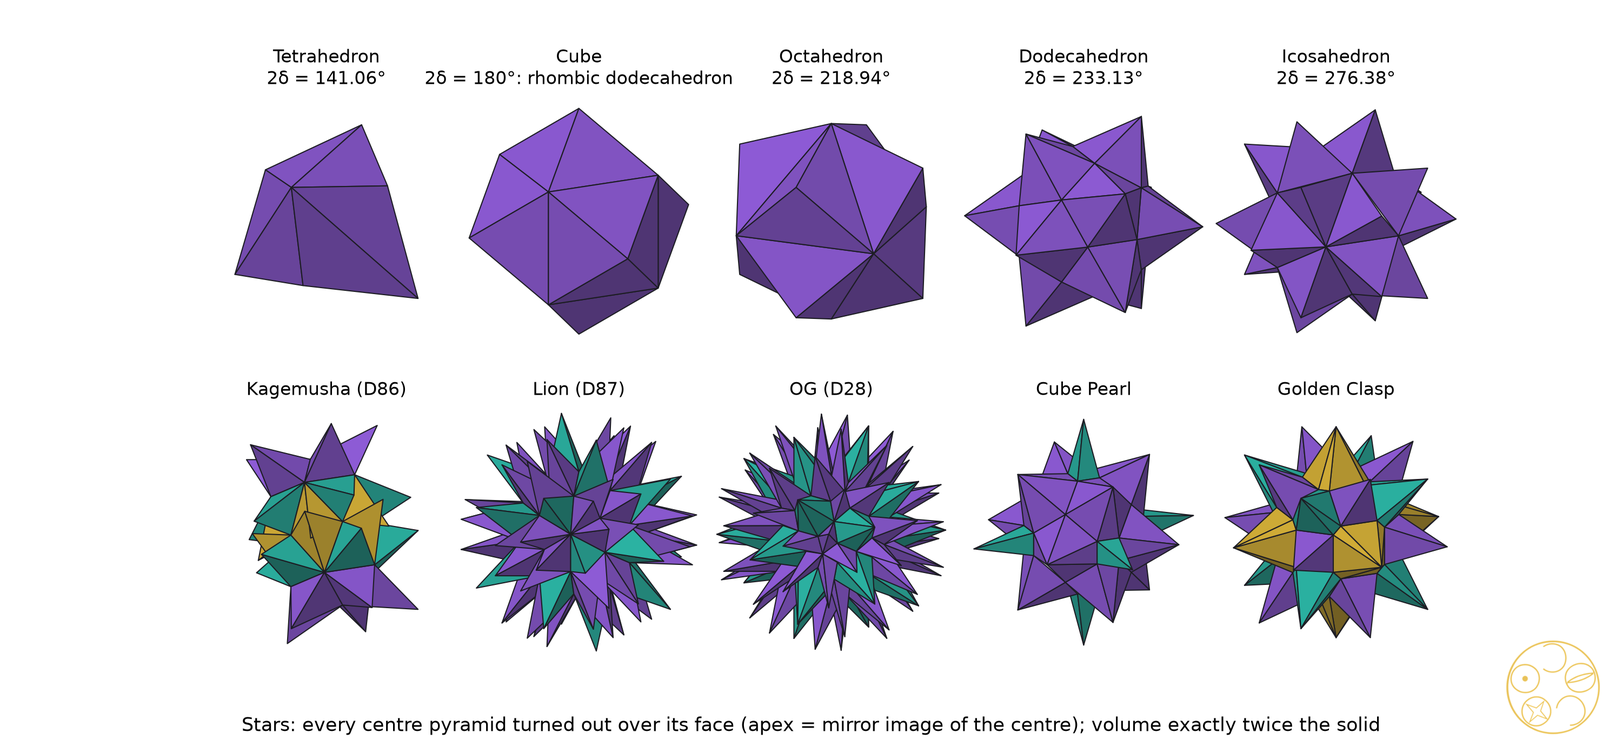
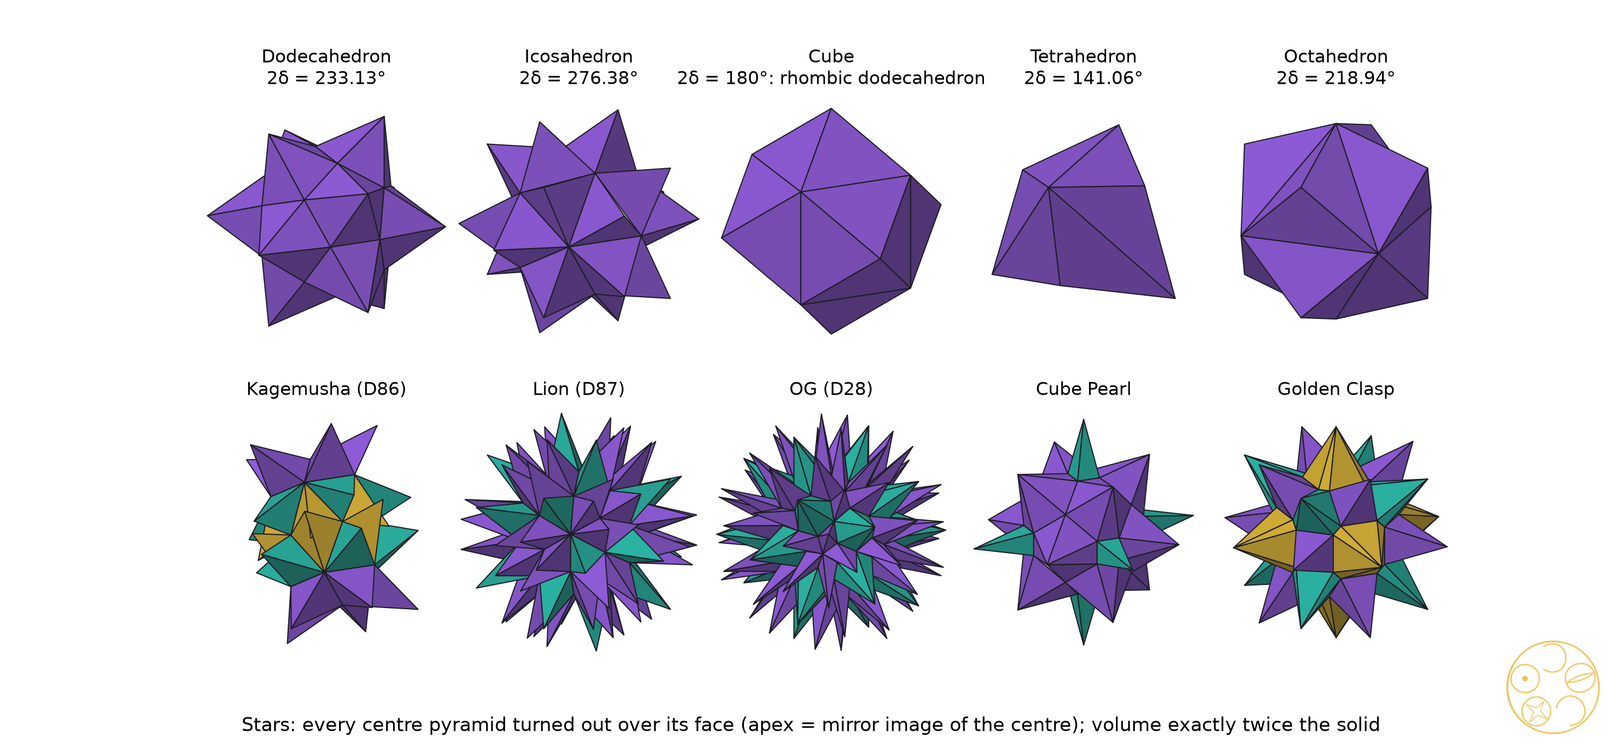
#87: Platonic solids in DICTO order D·I·C·T·O (table, plates 1–5, Figure 4, Star text)

diff --git a/papers/dicto-vacuus/paper.html b/papers/dicto-vacuus/paper.html
@@ -61,7 +61,7 @@ The idea, the family and its name, the two built forms and the origami are DICTO
 <p><b>Right-angled fins.</b> DICTO Ogdoecontahedron (OG): 60 of its 180 fins, right angle at a corner, apex 16.47°. DICTO Jewel: 24 of 96, at a corner, apex 54.74° (arctan √2). DICTO TQHD: 60, at a corner, apex 1.84°. ED F18: 2. David: 2, at O. Lahdeli: 12 (float64). Lotus Hexa: 48. Classical: the octahedron and the triakis octahedron, at O.</p>
 <p>Table 1 lists the five Platonic solids, the cuboctahedron and the DICTO solids named in this paper; the full census of 100 rows is in the study (vacuus-census.json, with every value as an exact string).</p>
 <table class=big><thead><tr><th>Solid</th><th>D</th><th>Field</th><th class=n>Fins</th><th class=n>Fin shapes</th><th class=n>Apex angles (°)</th><th class=n>Struts</th><th class=n>Strut lengths</th><th class=n>Edge lengths</th><th class=n>Frame lengths</th><th>Notes</th></tr></thead><tbody>
-<tr><td>Tetrahedron</td><td></td><td>Q</td><td class=n>6</td><td class=n>1</td><td class=n>109.47</td><td class=n>4</td><td class=n>1</td><td class=n>1</td><td class=n>2</td><td>Isofin</td></tr><tr><td>Cube</td><td></td><td>Q</td><td class=n>12</td><td class=n>1</td><td class=n>70.53</td><td class=n>8</td><td class=n>1</td><td class=n>1</td><td class=n>2</td><td>Isofin</td></tr><tr><td>Octahedron</td><td></td><td>Q</td><td class=n>12</td><td class=n>1</td><td class=n>90.00</td><td class=n>6</td><td class=n>1</td><td class=n>1</td><td class=n>2</td><td>Isofin; Disc: 3 × 4-fin disc; apex π/2; right-angled fins</td></tr><tr><td>Dodecahedron</td><td></td><td>Q(√5)</td><td class=n>30</td><td class=n>1</td><td class=n>41.81</td><td class=n>20</td><td class=n>1</td><td class=n>1</td><td class=n>2</td><td>Isofin</td></tr><tr><td>Icosahedron</td><td></td><td>Q(√5)</td><td class=n>30</td><td class=n>1</td><td class=n>63.43</td><td class=n>12</td><td class=n>1</td><td class=n>1</td><td class=n>2</td><td>Isofin</td></tr><tr><td>Cuboctahedron</td><td></td><td>Q</td><td class=n>24</td><td class=n>1</td><td class=n>60.00</td><td class=n>12</td><td class=n>1</td><td class=n>1</td><td class=n>1</td><td>Isofin; Disc: 4 × 6-fin disc; apex π/3</td></tr><tr><td>Kagemusha</td><td>D86</td><td>Q(√5)</td><td class=n>45</td><td class=n>4</td><td class=n>45.00–72.00</td><td class=n>17</td><td class=n>3</td><td class=n>1</td><td class=n>4</td><td>Disc: 1 × 5-fin disc; apex π/4, 2π/5; non-convex</td></tr><tr><td>Lion</td><td>D87</td><td>Q(√5)</td><td class=n>120</td><td class=n>2</td><td class=n>31.72–36.00</td><td class=n>42</td><td class=n>2</td><td class=n>2</td><td class=n>4</td><td>Disc: 6 × 10-fin disc; apex π/5</td></tr><tr><td>David</td><td></td><td>Q</td><td class=n>6</td><td class=n>2</td><td class=n>90.00–120.00</td><td class=n>4</td><td class=n>1</td><td class=n>2</td><td class=n>3</td><td>One-Strut; apex π/2, 2π/3; right-angled fins</td></tr><tr><td>Delilah</td><td></td><td>float64</td><td class=n>12</td><td class=n>1</td><td class=n>90.00</td><td class=n>6</td><td class=n>1</td><td class=n>1</td><td class=n>2</td><td>Isofin; Disc: 3 × 4-fin disc; One-Strut; apex π/2 (float64); right-angled fins</td></tr><tr><td>DICTO Ogdoecontahedron (OG)</td><td>D28</td><td>Q(√5)</td><td class=n>180</td><td class=n>2</td><td class=n>16.47–20.55</td><td class=n>102</td><td class=n>2</td><td class=n>2</td><td class=n>4</td><td>right-angled fins</td></tr><tr><td>Cube Pearl</td><td>D106</td><td>Q(√5)</td><td class=n>48</td><td class=n>2</td><td class=n>22.19–38.94</td><td class=n>32</td><td class=n>1</td><td class=n>2</td><td class=n>3</td><td>One-Strut</td></tr><tr><td>Golden Clasp</td><td>D107</td><td>Q(√5)</td><td class=n>72</td><td class=n>3</td><td class=n>10.09–35.15</td><td class=n>48</td><td class=n>1</td><td class=n>3</td><td class=n>4</td><td>One-Strut</td></tr><tr><td>TI Star core</td><td>D105</td><td>Q(√5)</td><td class=n>90</td><td class=n>2</td><td class=n>12.89–29.07</td><td class=n>60</td><td class=n>1</td><td class=n>2</td><td class=n>3</td><td>One-Strut</td></tr><tr><td>DICTO GTI</td><td>D40</td><td>Q(√5)</td><td class=n>90</td><td class=n>2</td><td class=n>15.52–36.87</td><td class=n>60</td><td class=n>1</td><td class=n>2</td><td class=n>3</td><td>One-Strut</td></tr><tr><td>Goliath</td><td></td><td>Q</td><td class=n>30</td><td class=n>2</td><td class=n>53.13–66.42</td><td class=n>12</td><td class=n>1</td><td class=n>2</td><td class=n>3</td><td>One-Strut</td></tr><tr><td>Icosaxes</td><td></td><td>Q(√5)</td><td class=n>36</td><td class=n>2</td><td class=n>26.57–43.65</td><td class=n>24</td><td class=n>1</td><td class=n>2</td><td class=n>3</td><td>One-Strut</td></tr><tr><td>Unborn Axes</td><td></td><td>Q(√5)</td><td class=n>36</td><td class=n>2</td><td class=n>29.23–48.19</td><td class=n>24</td><td class=n>1</td><td class=n>2</td><td class=n>3</td><td>One-Strut</td></tr><tr><td>White Knight</td><td>D101</td><td>Q(√5)</td><td class=n>180</td><td class=n>2</td><td class=n>13.23–21.48</td><td class=n>120</td><td class=n>1</td><td class=n>2</td><td class=n>3</td><td>One-Strut</td></tr><tr><td>Blockhead</td><td>D79</td><td>Q</td><td class=n>18</td><td class=n>3</td><td class=n>38.94–70.53</td><td class=n>10</td><td class=n>1</td><td class=n>3</td><td class=n>4</td><td>One-Strut</td></tr><tr><td>Dodecaxes</td><td>D70</td><td>Q(√5)</td><td class=n>84</td><td class=n>4</td><td class=n>29.23–70.53</td><td class=n>32</td><td class=n>1</td><td class=n>4</td><td class=n>5</td><td>One-Strut; non-convex</td></tr><tr><td>Lotus Hexa</td><td></td><td>Q(√5)</td><td class=n>564</td><td class=n>21</td><td class=n>10.81–37.38</td><td class=n>200</td><td class=n>7</td><td class=n>4</td><td class=n>11</td><td>not defined: O outside 24 face planes; right-angled fins; non-convex</td></tr></tbody></table>
+<tr><td>Dodecahedron</td><td></td><td>Q(√5)</td><td class=n>30</td><td class=n>1</td><td class=n>41.81</td><td class=n>20</td><td class=n>1</td><td class=n>1</td><td class=n>2</td><td>Isofin</td></tr><tr><td>Icosahedron</td><td></td><td>Q(√5)</td><td class=n>30</td><td class=n>1</td><td class=n>63.43</td><td class=n>12</td><td class=n>1</td><td class=n>1</td><td class=n>2</td><td>Isofin</td></tr><tr><td>Cube</td><td></td><td>Q</td><td class=n>12</td><td class=n>1</td><td class=n>70.53</td><td class=n>8</td><td class=n>1</td><td class=n>1</td><td class=n>2</td><td>Isofin</td></tr><tr><td>Tetrahedron</td><td></td><td>Q</td><td class=n>6</td><td class=n>1</td><td class=n>109.47</td><td class=n>4</td><td class=n>1</td><td class=n>1</td><td class=n>2</td><td>Isofin</td></tr><tr><td>Octahedron</td><td></td><td>Q</td><td class=n>12</td><td class=n>1</td><td class=n>90.00</td><td class=n>6</td><td class=n>1</td><td class=n>1</td><td class=n>2</td><td>Isofin; Disc: 3 × 4-fin disc; apex π/2; right-angled fins</td></tr><tr><td>Cuboctahedron</td><td></td><td>Q</td><td class=n>24</td><td class=n>1</td><td class=n>60.00</td><td class=n>12</td><td class=n>1</td><td class=n>1</td><td class=n>1</td><td>Isofin; Disc: 4 × 6-fin disc; apex π/3</td></tr><tr><td>Kagemusha</td><td>D86</td><td>Q(√5)</td><td class=n>45</td><td class=n>4</td><td class=n>45.00–72.00</td><td class=n>17</td><td class=n>3</td><td class=n>1</td><td class=n>4</td><td>Disc: 1 × 5-fin disc; apex π/4, 2π/5; non-convex</td></tr><tr><td>Lion</td><td>D87</td><td>Q(√5)</td><td class=n>120</td><td class=n>2</td><td class=n>31.72–36.00</td><td class=n>42</td><td class=n>2</td><td class=n>2</td><td class=n>4</td><td>Disc: 6 × 10-fin disc; apex π/5</td></tr><tr><td>David</td><td></td><td>Q</td><td class=n>6</td><td class=n>2</td><td class=n>90.00–120.00</td><td class=n>4</td><td class=n>1</td><td class=n>2</td><td class=n>3</td><td>One-Strut; apex π/2, 2π/3; right-angled fins</td></tr><tr><td>Delilah</td><td></td><td>float64</td><td class=n>12</td><td class=n>1</td><td class=n>90.00</td><td class=n>6</td><td class=n>1</td><td class=n>1</td><td class=n>2</td><td>Isofin; Disc: 3 × 4-fin disc; One-Strut; apex π/2 (float64); right-angled fins</td></tr><tr><td>DICTO Ogdoecontahedron (OG)</td><td>D28</td><td>Q(√5)</td><td class=n>180</td><td class=n>2</td><td class=n>16.47–20.55</td><td class=n>102</td><td class=n>2</td><td class=n>2</td><td class=n>4</td><td>right-angled fins</td></tr><tr><td>Cube Pearl</td><td>D106</td><td>Q(√5)</td><td class=n>48</td><td class=n>2</td><td class=n>22.19–38.94</td><td class=n>32</td><td class=n>1</td><td class=n>2</td><td class=n>3</td><td>One-Strut</td></tr><tr><td>Golden Clasp</td><td>D107</td><td>Q(√5)</td><td class=n>72</td><td class=n>3</td><td class=n>10.09–35.15</td><td class=n>48</td><td class=n>1</td><td class=n>3</td><td class=n>4</td><td>One-Strut</td></tr><tr><td>TI Star core</td><td>D105</td><td>Q(√5)</td><td class=n>90</td><td class=n>2</td><td class=n>12.89–29.07</td><td class=n>60</td><td class=n>1</td><td class=n>2</td><td class=n>3</td><td>One-Strut</td></tr><tr><td>DICTO GTI</td><td>D40</td><td>Q(√5)</td><td class=n>90</td><td class=n>2</td><td class=n>15.52–36.87</td><td class=n>60</td><td class=n>1</td><td class=n>2</td><td class=n>3</td><td>One-Strut</td></tr><tr><td>Goliath</td><td></td><td>Q</td><td class=n>30</td><td class=n>2</td><td class=n>53.13–66.42</td><td class=n>12</td><td class=n>1</td><td class=n>2</td><td class=n>3</td><td>One-Strut</td></tr><tr><td>Icosaxes</td><td></td><td>Q(√5)</td><td class=n>36</td><td class=n>2</td><td class=n>26.57–43.65</td><td class=n>24</td><td class=n>1</td><td class=n>2</td><td class=n>3</td><td>One-Strut</td></tr><tr><td>Unborn Axes</td><td></td><td>Q(√5)</td><td class=n>36</td><td class=n>2</td><td class=n>29.23–48.19</td><td class=n>24</td><td class=n>1</td><td class=n>2</td><td class=n>3</td><td>One-Strut</td></tr><tr><td>White Knight</td><td>D101</td><td>Q(√5)</td><td class=n>180</td><td class=n>2</td><td class=n>13.23–21.48</td><td class=n>120</td><td class=n>1</td><td class=n>2</td><td class=n>3</td><td>One-Strut</td></tr><tr><td>Blockhead</td><td>D79</td><td>Q</td><td class=n>18</td><td class=n>3</td><td class=n>38.94–70.53</td><td class=n>10</td><td class=n>1</td><td class=n>3</td><td class=n>4</td><td>One-Strut</td></tr><tr><td>Dodecaxes</td><td>D70</td><td>Q(√5)</td><td class=n>84</td><td class=n>4</td><td class=n>29.23–70.53</td><td class=n>32</td><td class=n>1</td><td class=n>4</td><td class=n>5</td><td>One-Strut; non-convex</td></tr><tr><td>Lotus Hexa</td><td></td><td>Q(√5)</td><td class=n>564</td><td class=n>21</td><td class=n>10.81–37.38</td><td class=n>200</td><td class=n>7</td><td class=n>4</td><td class=n>11</td><td>not defined: O outside 24 face planes; right-angled fins; non-convex</td></tr></tbody></table>
 <p class="prec">Table 1. The Vacuus of the Platonic solids, the cuboctahedron and the DICTO solids of this paper. Fins = edges, struts = corners. Frame lengths: distinct lengths among the struts and the edges together. D: DICTO's catalogue number where one is given in DICTO Solids v7. Notes: Isofin, Disc and One-Strut are the sub-families of Section 5; apex: fin apex angles that are rational multiples of π.</p>
 
 <h2>5. Findings: three sub-families</h2>
@@ -103,8 +103,8 @@ The idea, the family and its name, the two built forms and the origami are DICTO
 <p><b>The Star step.</b> DICTO proposed the Star as the step that turns each centre pyramid out over its own face. The turned-out pyramid over a face F has its apex at O<sub>F</sub>, the mirror image of O in the plane of F, and its walls are the mirror images in that plane of the fins on the edges of F.</p>
 <p class="thm"><b>Proposition 2 (the Star law).</b> Let P satisfy Proposition 1 and let Star(P) be P together with its turned-out centre pyramids. (a) The volume of Star(P) is exactly twice that of P. (b) At an edge of P with dihedral angle δ, the dihedral angle of Star(P) is 2δ. (c) The surface of Star(P) is the Vacuus of P reflected, fin by fin, in the face planes.</p>
 <p><b>Proof.</b> (a) The centre pyramids tile P, and reflection preserves volume, so the turned-out pyramids add a second copy of V(P). (c) Reflection in the plane of F carries the centre pyramid over F to the turned-out one and each fin on an edge of F to the wall over that edge. (b) The fin at an edge e splits δ into the two angles it makes with the faces F and G; reflection carries each angle to the far side of its face, so the material angle at e becomes the two reflected angles plus δ, that is 2δ. ∎</p>
-<p>The edge e therefore lies flat in Star(P) exactly when δ = 90°, and becomes a reflex (inward) edge when δ &gt; 90°. For the cube, every δ is 90°: the six turned-out pyramids close into the rhombic dodecahedron, of twice the cube's volume. Of the other Platonic solids only the tetrahedron keeps convex edges (2δ = 141.06°); the octahedron (218.94°), dodecahedron (233.13°) and icosahedron (276.38°) fold inward at every old edge. Part (b) was checked numerically on the tetrahedron (agreement to 10<sup>−13</sup>).</p>
-<figure><img src="figures/vacuus-stars.png" alt="The Stars of the five Platonic solids and five DICTO solids"><figcaption><b>Figure 4.</b> Stars (Proposition 2): every centre pyramid turned out over its own face, with its apex at the mirror image of O. Top row, the Platonic solids: the cube's Star closes into the rhombic dodecahedron (2δ = 180°); the tetrahedron's keeps convex edges; the octahedron, dodecahedron and icosahedron fold inward at every old edge. Bottom row, DICTO solids of Plates 6–10. Spikes coloured by face class. For all ten, the computed volume of the Star is twice that of the solid (largest deviation 7 × 10<sup>−16</sup>). The same rule (t = 2) is the centre rule of the Star Cores catalogue [13].</figcaption></figure>
+<p>The edge e therefore lies flat in Star(P) exactly when δ = 90°, and becomes a reflex (inward) edge when δ &gt; 90°. For the cube, every δ is 90°: the six turned-out pyramids close into the rhombic dodecahedron, of twice the cube's volume. Of the other Platonic solids, in DICTO order, the dodecahedron (233.13°) and icosahedron (276.38°) fold inward at every old edge, the tetrahedron keeps convex edges (2δ = 141.06°), and the octahedron (218.94°) folds inward. Part (b) was checked numerically on the tetrahedron (agreement to 10<sup>−13</sup>).</p>
+<figure><img src="figures/vacuus-stars.png" alt="The Stars of the five Platonic solids and five DICTO solids"><figcaption><b>Figure 4.</b> Stars (Proposition 2): every centre pyramid turned out over its own face, with its apex at the mirror image of O. Top row, the Platonic solids in DICTO order (D·I·C·T·O): the dodecahedron and icosahedron fold inward at every old edge; the cube's Star closes into the rhombic dodecahedron (2δ = 180°); the tetrahedron's keeps convex edges; the octahedron's folds inward. Bottom row, DICTO solids of Plates 6–10. Spikes coloured by face class. For all ten, the computed volume of the Star is twice that of the solid (largest deviation 7 × 10<sup>−16</sup>). The same rule (t = 2) is the centre rule of the Star Cores catalogue [13].</figcaption></figure>
 <p><b>Aristotle.</b> In <i>On the Heavens</i> Aristotle wrote that among solids only the pyramid and the cube fill space. DICTO proposed that the pyramid could be a face pyramid, and in paper #44 [1] we proved Aristotle's Pyramid Theorem: of the five face pyramids of the Platonic solids, only the cube's alone and the tetrahedron's with the octahedron's fill space; the icosahedron's, the Cleo-Icos, needs a partner that is not a face pyramid. There the centre pyramids are studied as pieces that fill space. Here the same pieces are studied for the walls between them; the two papers are companions.</p>
 <p><b>DICTO's route.</b> The line of work began with a build. DICTO made a cube from his PET-bottle system B1NR and saw that it is six pyramids meeting at the centre (Section 1). From there he turned to the face pyramids as space-fillers in #44 [1], and to the Star, in which the pyramids are turned out. The Vacuus takes the last step: it keeps only the walls the pyramids share, built as SHEETS or STRUTS (Section 2) and folded in paper (Section 6).</p>
 
@@ -130,11 +130,11 @@ The idea, the family and its name, the two built forms and the origami are DICTO
 
 <div class="plates"><h2>Plates</h2>
 <p>Each plate shows the Vacuus of one solid twice, inside a translucent ghost of the solid. Left, SHEETS: the fins, coloured by shape; each face shows as a hollow pyramid opening towards the centre. Right, STRUTS: rods from O (dark ball) to every corner, coloured by length, with the solid's edges as thin grey rods. Orthographic views, elevation 20°, azimuth 24°; z-buffer renderer with solid faces and edges of at least 2 px at 300 dpi. Plates 1–5 are the Platonic solids, Plates 6–11 DICTO's solids.</p>
-<figure class=pl><img src="figures/plate-tetrahedron.png" alt="Tetrahedron: Vacuus as sheets and as struts"><figcaption><b>Plate 1. Tetrahedron</b>: 6 fins, 4 struts. Left, SHEETS: <span class=sw style="background:#d4af37"></span>6 × apex 109.47°. Right, STRUTS: <span class=sw style="background:#d4af37"></span>4 × 1.0000 R (R = the longest strut); grey: the 6 edges of the solid in 1 length.</figcaption></figure>
-<figure class=pl><img src="figures/plate-cube.png" alt="Cube: Vacuus as sheets and as struts"><figcaption><b>Plate 2. Cube</b>: 12 fins, 8 struts. Left, SHEETS: <span class=sw style="background:#d4af37"></span>12 × apex 70.53°. Right, STRUTS: <span class=sw style="background:#d4af37"></span>8 × 1.0000 R (R = the longest strut); grey: the 12 edges of the solid in 1 length.</figcaption></figure>
-<figure class=pl><img src="figures/plate-octahedron.png" alt="Octahedron: Vacuus as sheets and as struts"><figcaption><b>Plate 3. Octahedron</b>: 12 fins, 6 struts. Left, SHEETS: <span class=sw style="background:#d4af37"></span>12 × apex 90.00° (= π/2), right angle at O. Right, STRUTS: <span class=sw style="background:#d4af37"></span>6 × 1.0000 R (R = the longest strut); grey: the 12 edges of the solid in 1 length. Central discs: 3 flat discs of 4 fins.</figcaption></figure>
-<figure class=pl><img src="figures/plate-dodecahedron.png" alt="Dodecahedron: Vacuus as sheets and as struts"><figcaption><b>Plate 4. Dodecahedron</b>: 30 fins, 20 struts. Left, SHEETS: <span class=sw style="background:#d4af37"></span>30 × apex 41.81°. Right, STRUTS: <span class=sw style="background:#d4af37"></span>20 × 1.0000 R (R = the longest strut); grey: the 30 edges of the solid in 1 length.</figcaption></figure>
-<figure class=pl><img src="figures/plate-icosahedron.png" alt="Icosahedron: Vacuus as sheets and as struts"><figcaption><b>Plate 5. Icosahedron</b>: 30 fins, 12 struts. Left, SHEETS: <span class=sw style="background:#d4af37"></span>30 × apex 63.43°. Right, STRUTS: <span class=sw style="background:#d4af37"></span>12 × 1.0000 R (R = the longest strut); grey: the 30 edges of the solid in 1 length.</figcaption></figure>
+<figure class=pl><img src="figures/plate-dodecahedron.png" alt="Dodecahedron: Vacuus as sheets and as struts"><figcaption><b>Plate 1. Dodecahedron</b>: 30 fins, 20 struts. Left, SHEETS: <span class=sw style="background:#d4af37"></span>30 × apex 41.81°. Right, STRUTS: <span class=sw style="background:#d4af37"></span>20 × 1.0000 R (R = the longest strut); grey: the 30 edges of the solid in 1 length.</figcaption></figure>
+<figure class=pl><img src="figures/plate-icosahedron.png" alt="Icosahedron: Vacuus as sheets and as struts"><figcaption><b>Plate 2. Icosahedron</b>: 30 fins, 12 struts. Left, SHEETS: <span class=sw style="background:#d4af37"></span>30 × apex 63.43°. Right, STRUTS: <span class=sw style="background:#d4af37"></span>12 × 1.0000 R (R = the longest strut); grey: the 30 edges of the solid in 1 length.</figcaption></figure>
+<figure class=pl><img src="figures/plate-cube.png" alt="Cube: Vacuus as sheets and as struts"><figcaption><b>Plate 3. Cube</b>: 12 fins, 8 struts. Left, SHEETS: <span class=sw style="background:#d4af37"></span>12 × apex 70.53°. Right, STRUTS: <span class=sw style="background:#d4af37"></span>8 × 1.0000 R (R = the longest strut); grey: the 12 edges of the solid in 1 length.</figcaption></figure>
+<figure class=pl><img src="figures/plate-tetrahedron.png" alt="Tetrahedron: Vacuus as sheets and as struts"><figcaption><b>Plate 4. Tetrahedron</b>: 6 fins, 4 struts. Left, SHEETS: <span class=sw style="background:#d4af37"></span>6 × apex 109.47°. Right, STRUTS: <span class=sw style="background:#d4af37"></span>4 × 1.0000 R (R = the longest strut); grey: the 6 edges of the solid in 1 length.</figcaption></figure>
+<figure class=pl><img src="figures/plate-octahedron.png" alt="Octahedron: Vacuus as sheets and as struts"><figcaption><b>Plate 5. Octahedron</b>: 12 fins, 6 struts. Left, SHEETS: <span class=sw style="background:#d4af37"></span>12 × apex 90.00° (= π/2), right angle at O. Right, STRUTS: <span class=sw style="background:#d4af37"></span>6 × 1.0000 R (R = the longest strut); grey: the 12 edges of the solid in 1 length. Central discs: 3 flat discs of 4 fins.</figcaption></figure>
 <figure class=pl><img src="figures/plate-dicto-shadow-17.png" alt="Kagemusha (D86): Vacuus as sheets and as struts"><figcaption><b>Plate 6. Kagemusha (D86)</b>: 45 fins, 17 struts. Left, SHEETS: <span class=sw style="background:#d4af37"></span>20 × apex 55.11°; <span class=sw style="background:#8e5bd6"></span>10 × apex 45.00° (= π/4); <span class=sw style="background:#2bb3a3"></span>10 × apex 49.12°; <span class=sw style="background:#e07b39"></span>5 × apex 72.00° (= 2π/5). Right, STRUTS: <span class=sw style="background:#d4af37"></span>2 × 1.0000 R; <span class=sw style="background:#8e5bd6"></span>10 × 0.8740 R; <span class=sw style="background:#2bb3a3"></span>5 × 0.6180 R (R = the longest strut); grey: the 45 edges of the solid in 1 length. Central discs: 1 flat disc of 5 fins.</figcaption></figure>
 <figure class=pl><img src="figures/plate-dicto-lion.png" alt="Lion (D87): Vacuus as sheets and as struts"><figcaption><b>Plate 7. Lion (D87)</b>: 120 fins, 42 struts. Left, SHEETS: <span class=sw style="background:#d4af37"></span>60 × apex 31.72°; <span class=sw style="background:#8e5bd6"></span>60 × apex 36.00° (= π/5). Right, STRUTS: <span class=sw style="background:#d4af37"></span>30 × 1.0000 R; <span class=sw style="background:#8e5bd6"></span>12 × 0.9511 R (R = the longest strut); grey: the 120 edges of the solid in 2 lengths. Central discs: 6 flat discs of 10 fins.</figcaption></figure>
 <figure class=pl><img src="figures/plate-dicto-ogdoecontahedron.png" alt="DICTO Ogdoecontahedron (OG, D28): Vacuus as sheets and as struts"><figcaption><b>Plate 8. DICTO Ogdoecontahedron (OG, D28)</b>: 180 fins, 102 struts. Left, SHEETS: <span class=sw style="background:#d4af37"></span>120 × apex 20.55°; <span class=sw style="background:#8e5bd6"></span>60 × apex 16.47°, right angle at a corner. Right, STRUTS: <span class=sw style="background:#d4af37"></span>12 × 1.0000 R; <span class=sw style="background:#8e5bd6"></span>90 × 0.9590 R (R = the longest strut); grey: the 180 edges of the solid in 2 lengths.</figcaption></figure>

diff --git a/papers/dicto-vacuus/paper.src.html b/papers/dicto-vacuus/paper.src.html
@@ -103,8 +103,8 @@ The idea, the family and its name, the two built forms and the origami are DICTO
 <p><b>The Star step.</b> DICTO proposed the Star as the step that turns each centre pyramid out over its own face. The turned-out pyramid over a face F has its apex at O<sub>F</sub>, the mirror image of O in the plane of F, and its walls are the mirror images in that plane of the fins on the edges of F.</p>
 <p class="thm"><b>Proposition 2 (the Star law).</b> Let P satisfy Proposition 1 and let Star(P) be P together with its turned-out centre pyramids. (a) The volume of Star(P) is exactly twice that of P. (b) At an edge of P with dihedral angle δ, the dihedral angle of Star(P) is 2δ. (c) The surface of Star(P) is the Vacuus of P reflected, fin by fin, in the face planes.</p>
 <p><b>Proof.</b> (a) The centre pyramids tile P, and reflection preserves volume, so the turned-out pyramids add a second copy of V(P). (c) Reflection in the plane of F carries the centre pyramid over F to the turned-out one and each fin on an edge of F to the wall over that edge. (b) The fin at an edge e splits δ into the two angles it makes with the faces F and G; reflection carries each angle to the far side of its face, so the material angle at e becomes the two reflected angles plus δ, that is 2δ. ∎</p>
-<p>The edge e therefore lies flat in Star(P) exactly when δ = 90°, and becomes a reflex (inward) edge when δ &gt; 90°. For the cube, every δ is 90°: the six turned-out pyramids close into the rhombic dodecahedron, of twice the cube's volume. Of the other Platonic solids only the tetrahedron keeps convex edges (2δ = 141.06°); the octahedron (218.94°), dodecahedron (233.13°) and icosahedron (276.38°) fold inward at every old edge. Part (b) was checked numerically on the tetrahedron (agreement to 10<sup>−13</sup>).</p>
-<figure><img src="figures/vacuus-stars.png" alt="The Stars of the five Platonic solids and five DICTO solids"><figcaption><b>Figure 4.</b> Stars (Proposition 2): every centre pyramid turned out over its own face, with its apex at the mirror image of O. Top row, the Platonic solids: the cube's Star closes into the rhombic dodecahedron (2δ = 180°); the tetrahedron's keeps convex edges; the octahedron, dodecahedron and icosahedron fold inward at every old edge. Bottom row, DICTO solids of Plates 6–10. Spikes coloured by face class. For all ten, the computed volume of the Star is twice that of the solid (largest deviation 7 × 10<sup>−16</sup>). The same rule (t = 2) is the centre rule of the Star Cores catalogue [13].</figcaption></figure>
+<p>The edge e therefore lies flat in Star(P) exactly when δ = 90°, and becomes a reflex (inward) edge when δ &gt; 90°. For the cube, every δ is 90°: the six turned-out pyramids close into the rhombic dodecahedron, of twice the cube's volume. Of the other Platonic solids, in DICTO order, the dodecahedron (233.13°) and icosahedron (276.38°) fold inward at every old edge, the tetrahedron keeps convex edges (2δ = 141.06°), and the octahedron (218.94°) folds inward. Part (b) was checked numerically on the tetrahedron (agreement to 10<sup>−13</sup>).</p>
+<figure><img src="figures/vacuus-stars.png" alt="The Stars of the five Platonic solids and five DICTO solids"><figcaption><b>Figure 4.</b> Stars (Proposition 2): every centre pyramid turned out over its own face, with its apex at the mirror image of O. Top row, the Platonic solids in DICTO order (D·I·C·T·O): the dodecahedron and icosahedron fold inward at every old edge; the cube's Star closes into the rhombic dodecahedron (2δ = 180°); the tetrahedron's keeps convex edges; the octahedron's folds inward. Bottom row, DICTO solids of Plates 6–10. Spikes coloured by face class. For all ten, the computed volume of the Star is twice that of the solid (largest deviation 7 × 10<sup>−16</sup>). The same rule (t = 2) is the centre rule of the Star Cores catalogue [13].</figcaption></figure>
 <p><b>Aristotle.</b> In <i>On the Heavens</i> Aristotle wrote that among solids only the pyramid and the cube fill space. DICTO proposed that the pyramid could be a face pyramid, and in paper #44 [1] we proved Aristotle's Pyramid Theorem: of the five face pyramids of the Platonic solids, only the cube's alone and the tetrahedron's with the octahedron's fill space; the icosahedron's, the Cleo-Icos, needs a partner that is not a face pyramid. There the centre pyramids are studied as pieces that fill space. Here the same pieces are studied for the walls between them; the two papers are companions.</p>
 <p><b>DICTO's route.</b> The line of work began with a build. DICTO made a cube from his PET-bottle system B1NR and saw that it is six pyramids meeting at the centre (Section 1). From there he turned to the face pyramids as space-fillers in #44 [1], and to the Star, in which the pyramids are turned out. The Vacuus takes the last step: it keeps only the walls the pyramids share, built as SHEETS or STRUTS (Section 2) and folded in paper (Section 6).</p>
 

diff --git a/papers/dicto-vacuus/build.py b/papers/dicto-vacuus/build.py
@@ -14,7 +14,7 @@ def short(n):
     return {'Truncated-Icosahedral Hecatodihedron': 'DICTO Hecatodihedron', 'GTI': 'DICTO GTI', 'Ogdoecontahedron': 'DICTO Ogdoecontahedron (OG)'}.get(n, n)
 
 # ---------- the one table ----------
-TAB = [('tetrahedron', 'Tetrahedron'), ('cube', 'Cube'), ('octahedron', 'Octahedron'), ('dodecahedron', 'Dodecahedron'), ('icosahedron', 'Icosahedron'),
+TAB = [('dodecahedron', 'Dodecahedron'), ('icosahedron', 'Icosahedron'), ('cube', 'Cube'), ('tetrahedron', 'Tetrahedron'), ('octahedron', 'Octahedron'),
        ('cuboctahedron', 'Cuboctahedron'), ('dicto-shadow-17', 'Kagemusha'), ('dicto-lion', 'Lion'), ('dicto-david', 'David'), ('dicto-delilah', 'Delilah'),
        ('dicto-ogdoecontahedron', 'DICTO Ogdoecontahedron (OG)'), ('dicto-cube-pearl', 'Cube Pearl'), ('dicto-golden-clasp', 'Golden Clasp'),
        ('dicto-ti-star-core', 'TI Star core'), ('dicto-gti', 'DICTO GTI'), ('dicto-goliath', 'Goliath'), ('dicto-icosaxes', 'Icosaxes'),
@@ -43,7 +43,7 @@ for slug, nm in TAB:
              f"<td class=n>{r['V']}</td><td class=n>{r['strut_lengths']}</td><td class=n>{r['edge_lengths']}</td><td class=n>{r['frame_lengths']}</td><td>{notes(r)}</td></tr>")
 
 # ---------- plates ----------
-PL = [('tetrahedron', 'Tetrahedron'), ('cube', 'Cube'), ('octahedron', 'Octahedron'), ('dodecahedron', 'Dodecahedron'), ('icosahedron', 'Icosahedron'),
+PL = [('dodecahedron', 'Dodecahedron'), ('icosahedron', 'Icosahedron'), ('cube', 'Cube'), ('tetrahedron', 'Tetrahedron'), ('octahedron', 'Octahedron'),
       ('dicto-shadow-17', 'Kagemusha (D86)'), ('dicto-lion', 'Lion (D87)'), ('dicto-ogdoecontahedron', 'DICTO Ogdoecontahedron (OG, D28)'),
       ('dicto-cube-pearl', 'Cube Pearl (D106)'), ('dicto-golden-clasp', 'Golden Clasp (D107)'), ('dicto-ti-star-core', 'TI Star core (D105)')]
 def sw(c): return f'<span class=sw style="background:{c}"></span>'

diff --git a/studies/2026-10-30-star-cores/scripts/figs_vacuus_star.py b/studies/2026-10-30-star-cores/scripts/figs_vacuus_star.py
@@ -28,8 +28,8 @@ def star(faces):
     return [(np.vstack([Q, 2 * d * n]), Q, d) for Q, n, d in faces]
 
 COLS = [A.VIOLET, A.TEAL, A.GOLD]
-ROWS = [[('tetrahedron', 'Tetrahedron', '2δ = 141.06°'), ('cube', 'Cube', '2δ = 180°: rhombic dodecahedron'),
-         ('octahedron', 'Octahedron', '2δ = 218.94°'), ('dodecahedron', 'Dodecahedron', '2δ = 233.13°'), ('icosahedron', 'Icosahedron', '2δ = 276.38°')],
+ROWS = [[('dodecahedron', 'Dodecahedron', '2δ = 233.13°'), ('icosahedron', 'Icosahedron', '2δ = 276.38°'), ('cube', 'Cube', '2δ = 180°: rhombic dodecahedron'),
+         ('tetrahedron', 'Tetrahedron', '2δ = 141.06°'), ('octahedron', 'Octahedron', '2δ = 218.94°')],   # DICTO order D·I·C·T·O
         [('dicto-shadow-17.json', 'Kagemusha (D86)', ''), ('dicto-lion.json', 'Lion (D87)', ''), ('dicto-ogdoecontahedron.json', 'OG (D28)', ''),
          ('dicto-cube-pearl.json', 'Cube Pearl', ''), ('dicto-golden-clasp.json', 'Golden Clasp', '')]]
 
